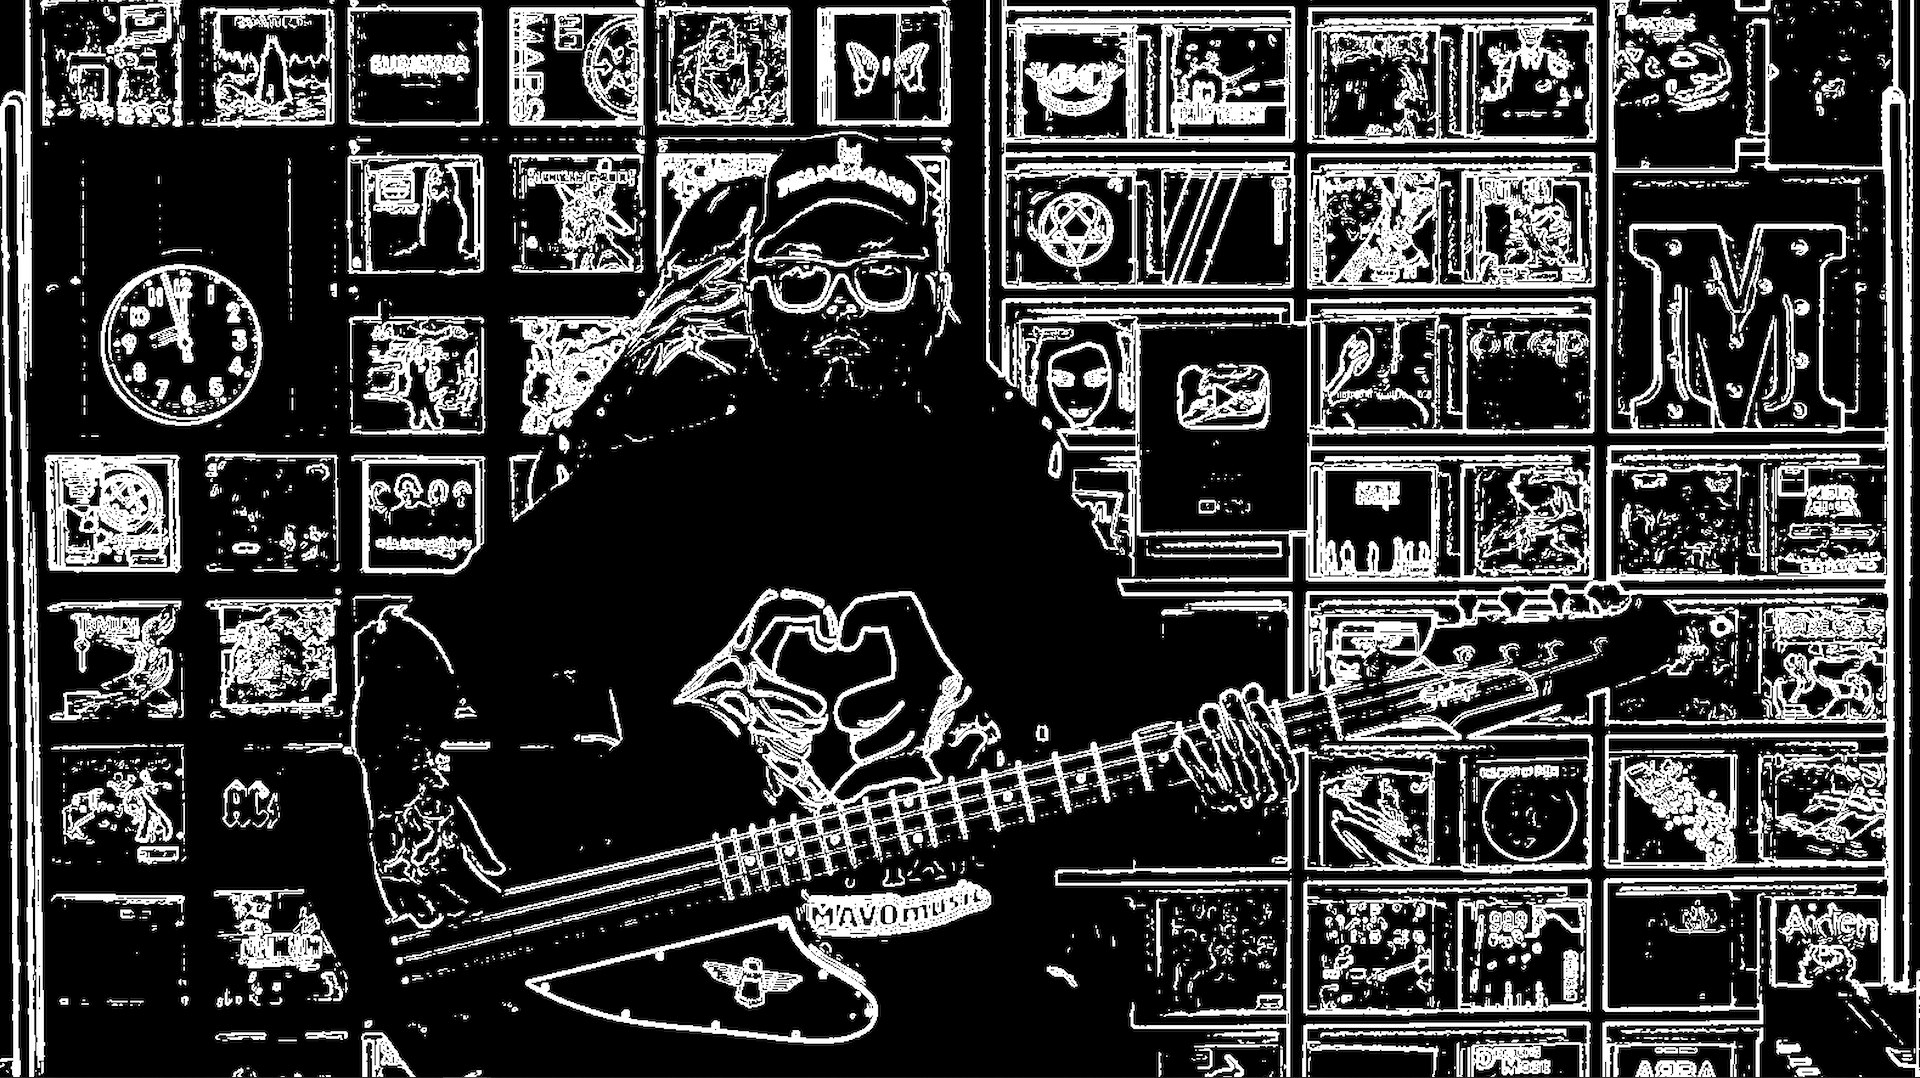
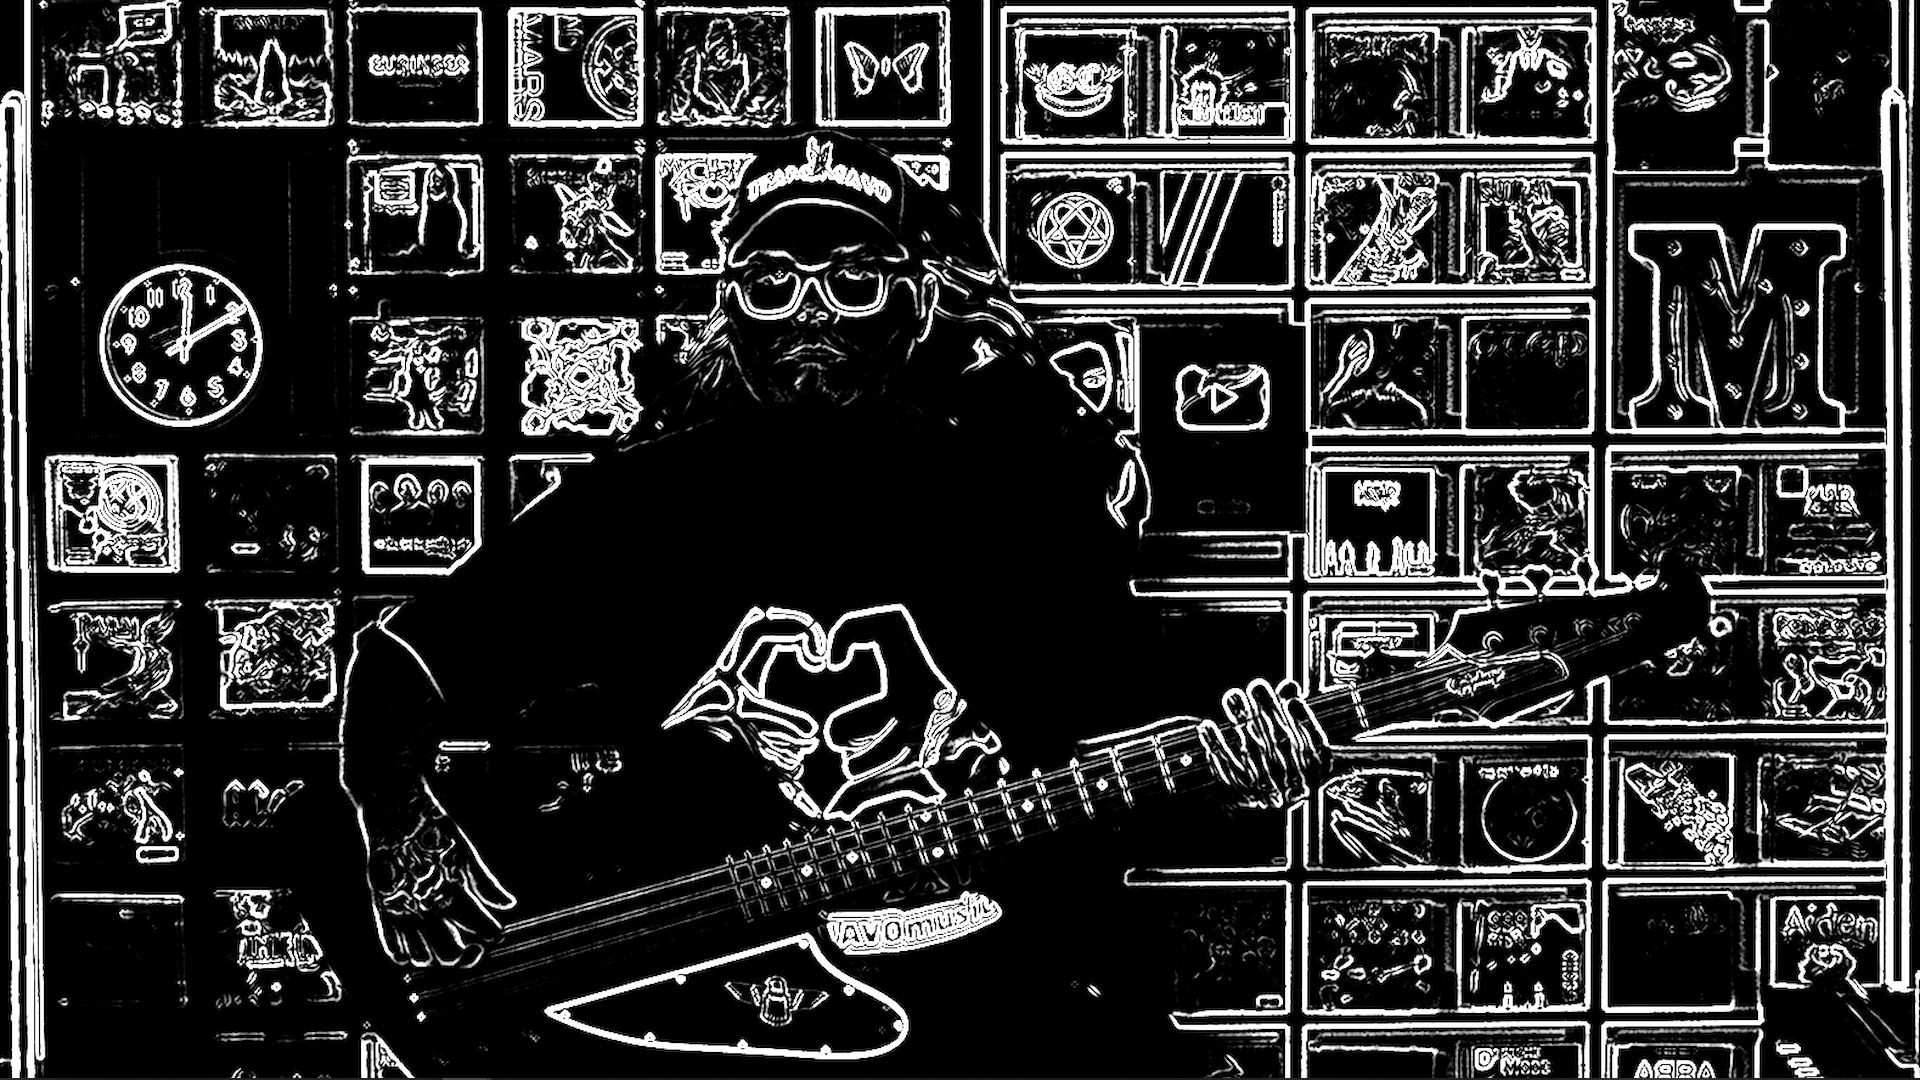
v1.15.0 look 2/25 Animate Me FINAL - real captures measured cleaner (ink down, black sheet up)

diff --git a/SETUP_CHECKLIST.md b/SETUP_CHECKLIST.md
@@ -99,7 +99,7 @@ Goal: close the "Chainbrain video looks cleaner" gap. The Vertical canvas keeps 
 - [x] hsl_hsv_saturation recommended use created: NEW/Stage Colour Pop/mavo_stage_colour_pop_horizontal+vertical.shader (gentle Parallel lift, alpha fixed) + memo. Its old B&W job is replaced by the Black And White look above
 - [x] Stage Colour Pop TESTED - FINAL as a look (v1.13.4): saturation +8.5%, no added clipping, skin OK (measured in CHANGELOG). Decision (user question): default 'no filter' recording look = Sharpen ONLY (clean master can be graded later; Pop's colour is baked in). Pop = live colourful-songs look, stacked after Sharpen. Face dimness in the test frames is the known exposure item, not Pop's job
 - [x] Look 2/25 Animate Me (edge_detection, user's Sensitivity 0.05 both views): replaced by NEW/Animate Me/mavo_manga_edges_horizontal/vertical.shader - pre-blur + 2px gradient + soft ramp instead of binary Sobel (simulation: 21.5% vs 29.8% edge coverage, less speckle) + SETTINGS_MEMO.md
-- [ ] USER TEST look 2/25 (RE-SEND NEEDED, v1.14.1): the captures received were pixel-identical to the OLD examples (diff = JPG noise only) - either old files re-attached or OBS still loads edge_detection. Verify the filter shows Threshold/Softness/Line distance/Pre-blur sliders (= new mavo_manga_edges), capture fresh H+V frames, then: lines missing = Threshold -0.01, speckle = +0.01, then FINAL
+- [x] Look 2/25 Animate Me FINAL (v1.15.0): correct new-shader captures measured - solid ink down (H 20.4->14.8%, V 15.4->8.8%), black sheet up (67.7% H / 80.1% V), soft grey lines present, all main outlines readable both views. Files: NEW/Animate Me/mavo_manga_edges_horizontal/vertical.shader + memo. (The first 'results' sent were the old frames - pixel-identical, caught by measurement, v1.14.1.)
 - [x] Lyrics files (v1.12.1): user's uploaded copy checked - OBS does NOT write slider values back into .shader files (his copy had stale 2.0/0.45 defaults; his tuned 4.0/0.4 live only in OBS). Repo Karaoke/ now holds lyrics_karaoke_horizontal.shader (4.0/0.4 baked) + lyrics_karaoke_vertical.shader (+ Bold 1, Outer 3)
 - [x] Sharpen clarification recorded: standalone Sharpen is OFF on Black And White and Stage Colour Pop sources; all their pictures were made without it (B&W's INTERNAL sharpen sliders were at 2.0/1.8 defaults though - user to confirm not zeroed)
 - [x] SHARPEN POLICY DECIDED (v1.13.0): user tested standalone Sharpen ON + B&W internal 0 on both views; measured better (detail +53% H / +34% V vs internal-only FINAL, no blowout/grit). POLICY: Sharpen (edge_aware, values in Sharpen/edge_aware_sharpen_horizontal+vertical.shader) always ON first on both clones for ALL 25 looks; any look with internal sharpen sets it to 0. B&W files updated accordingly (internal 0.0 baked). Stage Colour Pop gets the same standalone Sharpen when used - no file change needed

diff --git a/CHANGELOG.md b/CHANGELOG.md
@@ -1,5 +1,8 @@
 # Changelog
 
+## [1.15.0] - Look 2/25 Animate Me FINAL (real new-shader captures verified)
+- User re-sent correct captures (previous ones were the old frames, see v1.14.1). Measured vs old edge_detection frames: solid-white ink 20.4%->14.8% (H) and 15.4%->8.8% (V camera area), total ink 27.4%->23.8% (H) / 20.6%->14.4% (V), black sheet 64.7%->67.7% (H) / 73.6%->80.1% (V), grey anti-aliased line pixels up 7.0%->9.1% (H) - exactly the planned soft-ramp manga behaviour: fewer, cleaner lines, less speckle, outlines/bass/CD frames all readable in both views. Repo example JPGs replaced with the new captures. Look 2/25 FINAL with the memo values (H 0.05/0.13, V 0.065/0.15).
+
 ## [1.14.1] - Animate Me test images re-sent were the OLD frames (pixel-identical) - awaiting real new-shader captures
 - The two 'results' images received for look 2/25 are pixel-identical to the previous OLD-shader examples (mean abs difference 1.4/255 horizontal and 1.6/255 vertical = JPG q88 compression noise only; every stat matches exactly: white ink 20.4%, black 64.7% H). So they cannot be captures of the new mavo_manga_edges shader - either the old example files were re-attached, or the filter in OBS still loads OLD/edge_detection.shader. NOT marked final. Check for the user: the new filter's sliders are named Threshold / Softness / Line distance / Pre-blur (old one says Sensitivity). Re-send captures from the new shader to close look 2/25.
 

diff --git a/OBS & Stream Files/SHADER/NEW/SHADER_NOTES.md b/OBS & Stream Files/SHADER/NEW/SHADER_NOTES.md
@@ -72,8 +72,10 @@ ANIMATE ME (2/25) v1.14.0: user look = OLD/edge_detection.shader
 Sensitivity 0.05 both views (binary Sobel - code read). Ours:
 `Animate Me/mavo_manga_edges_horizontal.shader` (Threshold 0.05,
 Softness 0.13, Distance 2, Pre-blur 1.0) + `_vertical` (0.065/0.15).
-Simulation: 21.5% vs 29.8% edge coverage, speckle down. User A/B
-pending before FINAL. Original shader kept in OLD.
+Simulation: 21.5% vs 29.8% edge coverage, speckle down.
+User captures (the second send; first send was pixel-identical old
+frames): solid ink H 20.4->14.8%, V 15.4->8.8%; black 64.7->67.7% H,
+73.6->80.1% V. **FINAL v1.15.0.** Original shader kept in OLD.
 
 Status legend: READY = analysed, waiting for the user's settings/image.
 TUNING = their settings received, fine-tune in progress. FINAL = agreed.

diff --git a/CONTEXT.md b/CONTEXT.md
@@ -1,6 +1,6 @@
-# CONTEXT.md — Sony ZV-E10 Streaming Setup (current, v1.14.1)
+# CONTEXT.md — Sony ZV-E10 Streaming Setup (current, v1.15.0)
 
-Last updated: 2026-10-18 (v1.14.1). This file is the single current-state summary.
+Last updated: 2026-10-18 (v1.15.0). This file is the single current-state summary.
 It supersedes `AI_HANDOFF_CONTEXT.md` (v1.3-era, kept for history only — do not
 trust its settings, branch notes, or "vision check" instructions).
 Update this file on EVERY settings change, together with `SETUP_CHECKLIST.md`,

diff --git a/OBS & Stream Files/SHADER/NEW/Animate Me/SETTINGS_MEMO.md b/OBS & Stream Files/SHADER/NEW/Animate Me/SETTINGS_MEMO.md
@@ -17,4 +17,6 @@ Simulation on the user's colour frame: edge coverage 21.5% (new) vs 29.8%
 Use: white manga line-art on black for anime/retro/J-rock style songs,
 intros and alerts. Keep the always-on Sharpen in front (the pre-blur is
 designed for it). One knob in use: Threshold -0.01 = more lines,
-+0.01 = cleaner. Status: user A/B test pending.
++0.01 = cleaner. Status: FINAL (v1.15.0, user captures measured:
+solid ink H 20.4->14.8%, V 15.4->8.8% vs the old binary Sobel;
+black sheet 67.7% H / 80.1% V).
